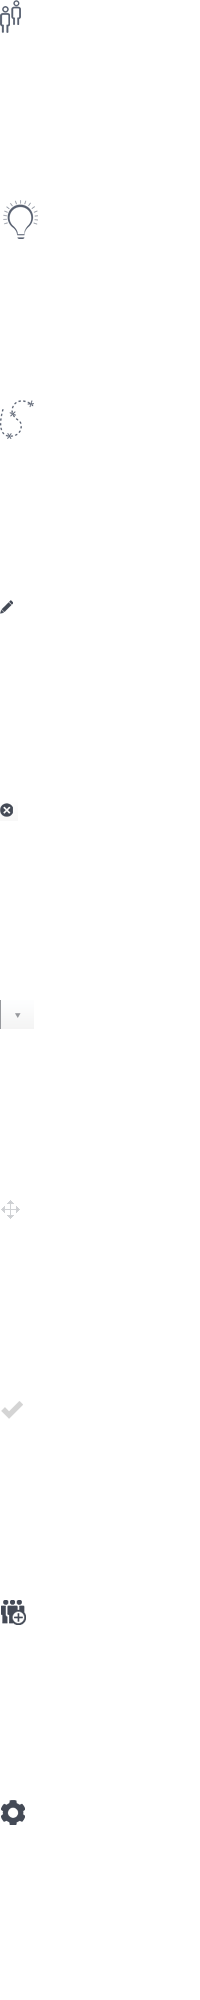
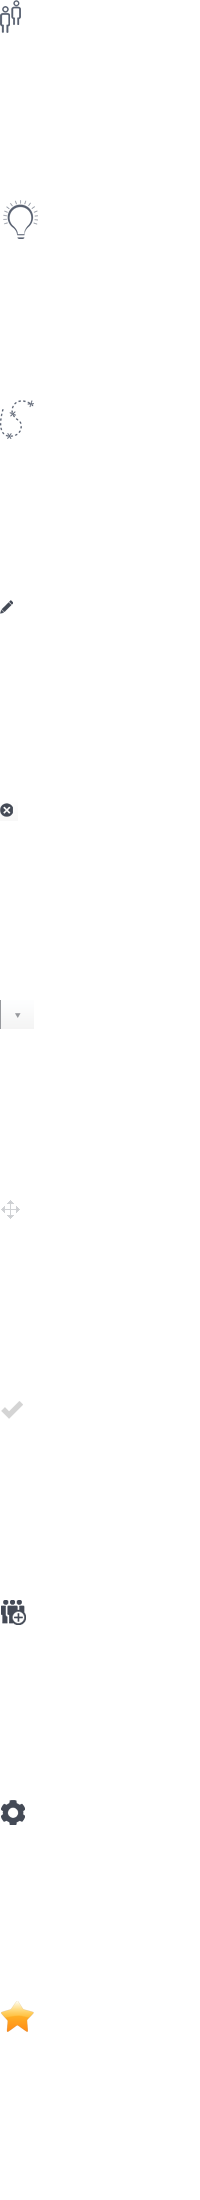
Added favourite logic to analysis.

diff --git a/css/analysis/index.css b/css/analysis/index.css
@@ -220,6 +220,11 @@
         table-layout: fixed;
     }
 
+    #score .alternatives {
+        width: 189px; /*155px*/
+        left: -44px;
+    }
+
         #abacon .criteria tr,
         #score .alternatives tr {
             width: 100%;
@@ -227,7 +232,7 @@
         }
 
             #abacon .criteria tr td,
-            #score .alternatives tr td {
+            #score .alternatives tr td.name {
                 height: 60px;
                 max-height: 60px;
                 padding: 0 10px 1px 10px;
@@ -237,6 +242,7 @@
                 font-style: italic;
                 text-align: right;
                 overflow: hidden;
+                position: relative;
             }
 
     #abacon .scale,
@@ -268,6 +274,27 @@
 
             #score .scale tr td {
                 width: 75px;
+            }
+
+            #score .alternatives td.name:hover {
+                cursor: pointer;
+            }
+
+            #score .alternatives td.fav {
+                width: 44px;
+                height: 50px;
+                top: 0;
+                left: -30px;
+            }
+
+            #score .alternatives td.hover {
+                background: url(../../images/bg/icons.png) 0 -1990px no-repeat;
+                opacity: 0.4;
+            }
+
+            #score .alternatives td.selected {
+                background: url(../../images/bg/icons.png) 0 -1990px no-repeat;
+                opacity: 1;
             }
 
 /* Score Sidebar

diff --git a/js/analysis/index.js b/js/analysis/index.js
@@ -83,4 +83,32 @@ $(document).ready(function(){
         $(this).parent().siblings('form').show();
         return false;
     });
+
+    //hover favourite
+    $('#score table td.name').hover(function(){
+        $(this).siblings('td').addClass('hover');
+    }, function(){
+        $(this).siblings('td').removeClass('hover');
+    });
+
+    //post favourite
+    $('#score table td').click(function(){
+        $.ajax({
+            type: 'POST',
+            url: location.href,
+            dataType: 'json',
+            data: {
+                'favourite' : true,
+                'alternative' : $(this).attr('id')
+            },
+            success: function(data) {
+                if(data['status'] == true){
+
+                    //errors
+                } else {
+
+                }
+            }
+        });
+    });
 });

diff --git a/protected/modules/decision/views/analysis/display.php b/protected/modules/decision/views/analysis/display.php
@@ -38,7 +38,8 @@ Graph.Data = <?php echo json_encode($eval); ?>;
             <table class="alternatives">
                 <?php foreach($bestAlternatives as $A) { ?>
                 <tr>
-                    <td><?php echo CHtml::encode($A->title); ?></td>
+                    <td class="fav"></td>
+                    <td class="name" id="<?php echo $A->getPrimaryKey(); ?>"><?php echo CHtml::encode($A->title); ?></td>
                 </tr>
                 <?php }?>
             </table>
@@ -89,7 +90,7 @@ Graph.Data = <?php echo json_encode($eval); ?>;
             <table class="criteria">
                 <?php foreach($this->DecisionModel->findCriteriaByPriority() as $Criteria) { ?>
                 <tr>
-                    <td id="<?php echo $A->getPrimaryKey(); ?>"><?php echo CHtml::encode($Criteria->title); ?></td>
+                    <td><?php echo CHtml::encode($Criteria->title); ?></td>
                 </tr>
                 <?php }?>
             </table>
